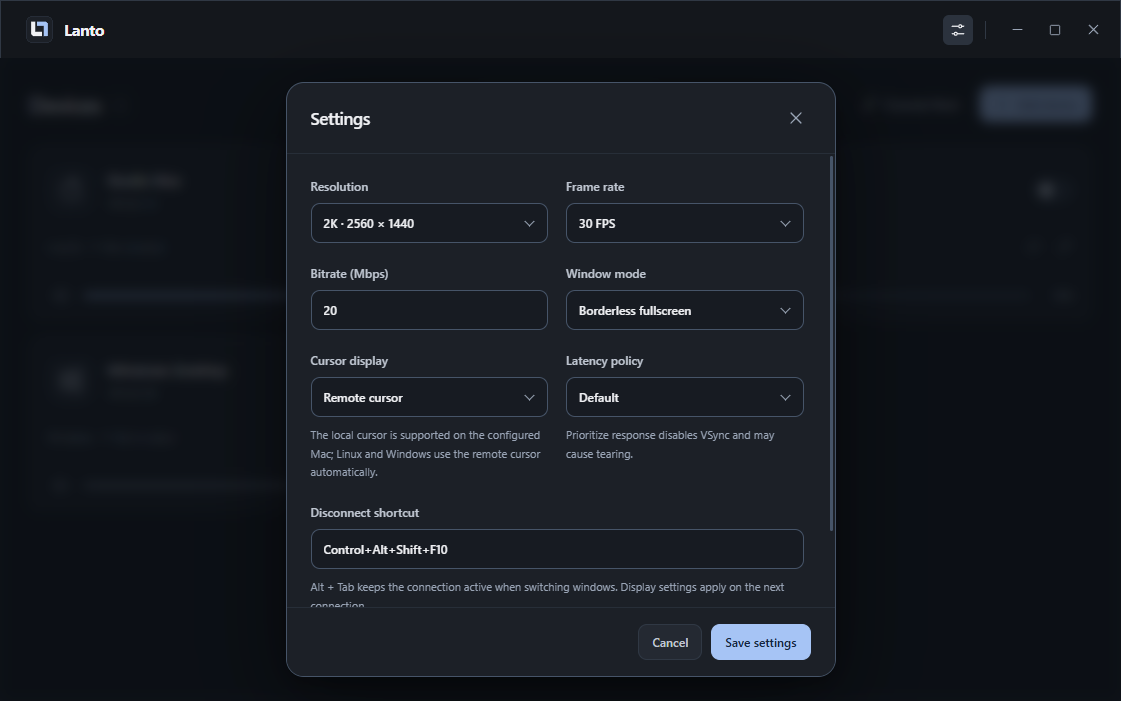
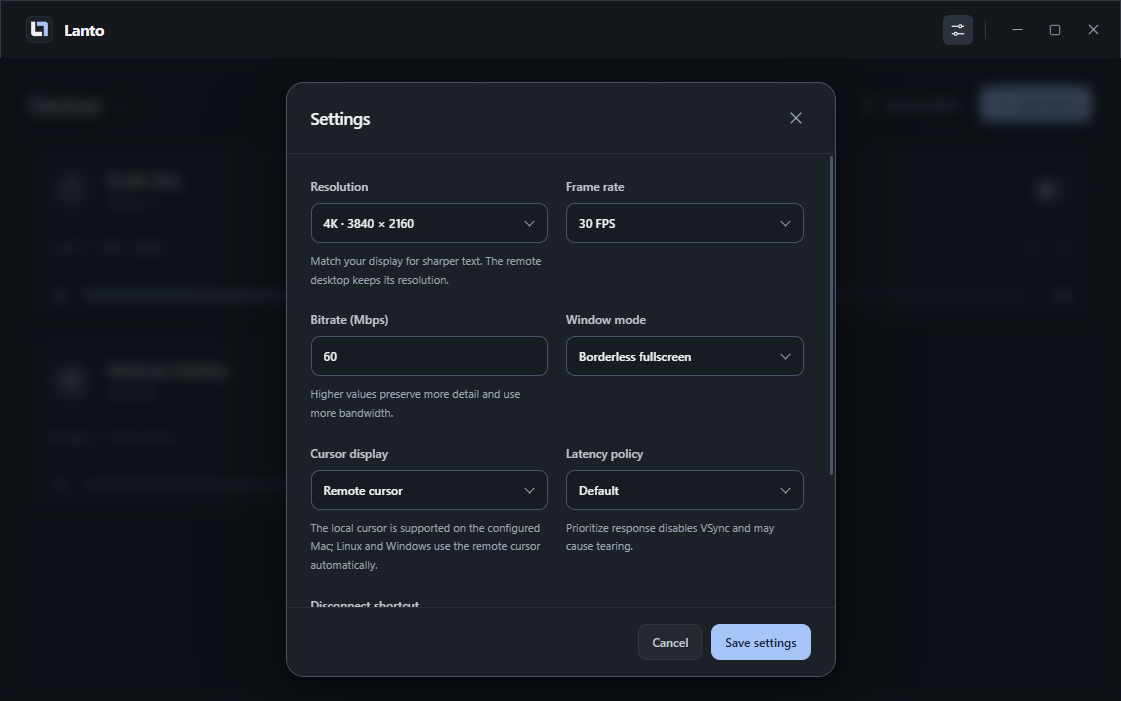
feat: add configurable 4K desktop streaming

diff --git a/src/renderer/src/components/SettingsDialog.tsx b/src/renderer/src/components/SettingsDialog.tsx
@@ -52,14 +52,19 @@ export function SettingsDialog({
               <select
                 autoFocus
                 aria-label="Resolution"
+                aria-describedby="resolution-hint"
                 value={draft.resolution}
                 onChange={(event) =>
                   setDraft({ ...draft, resolution: event.target.value as Settings['resolution'] })
                 }
               >
+                <option value="3840x2160">4K · 3840 × 2160</option>
                 <option value="2560x1440">2K · 2560 × 1440</option>
                 <option value="1920x1080">1080p · 1920 × 1080</option>
               </select>
+              <small id="resolution-hint">
+                Match your display for sharper text. The remote desktop keeps its resolution.
+              </small>
             </label>
             <label>
               Frame rate
@@ -79,6 +84,8 @@ export function SettingsDialog({
               Bitrate (Mbps)
               <input
                 type="number"
+                aria-label="Bitrate (Mbps)"
+                aria-describedby="bitrate-hint"
                 required
                 min={5}
                 max={100}
@@ -87,6 +94,9 @@ export function SettingsDialog({
                   setDraft({ ...draft, bitrateMbps: Number(event.target.value) })
                 }
               />
+              <small id="bitrate-hint">
+                Higher values preserve more detail and use more bandwidth.
+              </small>
             </label>
             <label>
               Window mode

diff --git a/tests/config.test.ts b/tests/config.test.ts
@@ -17,12 +17,20 @@ test('configuration persists a NAS-independent local profile across restarts', a
     assert.deepEqual(original, defaultConfig())
     assert.equal(original.devices.length, 0)
     original.devices.push(deviceFixture())
-    original.settings.bitrateMbps = 35
+    original.settings.resolution = '3840x2160'
+    original.settings.fps = 30
+    original.settings.bitrateMbps = 75
     await store.save(original)
     assert.deepEqual(await new ConfigStore(directory).load(), original)
     original.devices[0]!.name = 'New name'
     await store.save(original)
     assert.equal((await store.load()).devices[0]!.name, 'New name')
+    // New defaults must not overwrite an existing lower-bandwidth profile.
+    original.settings.resolution = '1920x1080'
+    original.settings.fps = 60
+    original.settings.bitrateMbps = 20
+    await store.save(original)
+    assert.deepEqual((await new ConfigStore(directory).load()).settings, original.settings)
   } finally {
     await removeTestDirectory(directory, 'lanto-config-')
   }

diff --git a/src/shared/model.ts b/src/shared/model.ts
@@ -25,7 +25,7 @@ export type DeviceInput = Omit<Device, 'id' | keyof DeviceAudio> &
 export interface Settings {
   moonlightPath: string
   returnShortcut: string
-  resolution: '2560x1440' | '1920x1080'
+  resolution: '3840x2160' | '2560x1440' | '1920x1080'
   fps: number
   bitrateMbps: number
   windowMode: 'borderless' | 'windowed'
@@ -139,9 +139,9 @@ export function defaultConfig(): Config {
     settings: {
       moonlightPath: '',
       returnShortcut: 'Control+Alt+F12',
-      resolution: '2560x1440',
+      resolution: '3840x2160',
       fps: 30,
-      bitrateMbps: 20,
+      bitrateMbps: 60,
       windowMode: 'borderless',
       lowLatency: false,
       showPerformanceOverlay: false,

diff --git a/tests/media.test.ts b/tests/media.test.ts
@@ -15,7 +15,8 @@ test('Moonlight uses discrete arguments and leaves the remote app running after 
   const device = deviceFixture({ appName: 'Desktop with spaces' })
   const args = streamArguments(device, config.settings)
   assert.deepEqual(args.slice(0, 3), ['stream', 'linux1.local', 'Desktop with spaces'])
-  assert.equal(args[args.indexOf('--bitrate') + 1], '20000')
+  assert.equal(args[args.indexOf('--resolution') + 1], '3840x2160')
+  assert.equal(args[args.indexOf('--bitrate') + 1], '60000')
   assert.equal(args[args.indexOf('--fps') + 1], '30')
   assert.ok(args.includes('--no-quit-after'))
   assert.ok(args.includes('--no-background-gamepad'))

diff --git a/src/shared/validation.ts b/src/shared/validation.ts
@@ -47,7 +47,7 @@ export const settingsSchema = z
       .max(4096)
       .refine((value) => !/[\u0000-\u001f]/.test(value)),
     returnShortcut: cleanText(80),
-    resolution: z.enum(['2560x1440', '1920x1080']),
+    resolution: z.enum(['3840x2160', '2560x1440', '1920x1080']),
     fps: z.number().int().min(15).max(60),
     bitrateMbps: z.number().int().min(5).max(100),
     windowMode: z.enum(['borderless', 'windowed']),

diff --git a/docs/verification.md b/docs/verification.md
@@ -183,3 +183,11 @@ After integration of the parallel English UI changes, formatting, type checking,
 The Windows portable package was launched using an isolated user data directory. Checks confirmed packaged execution, automatic discovery of the bundled player, an empty initial device list, and an available SSH wizard. The package contains the player, Host archive, required JavaScript dependencies, and component catalog; the controller requires no separate Node.js or Moonlight installation.
 
 Validation limits: existing Sunshine and Host installations were not removed to exercise installer branches. Full installation regression on clean Windows, macOS, and Linux images has not been completed. Fresh installation paths are implemented with pinned versions and SHA256 verification, while system permissions remain under OS control. Reuse tests do not establish support for every clean system, distribution, architecture, or driver. See the [SSH deployment scope](ssh-deployment.md).
+
+## Configurable 4K desktop streaming
+
+On 2026-10-17, 3840 × 2160 was added to the settings schema and resolution selector. New profiles use 4K, 30 FPS, and 60 Mbps; existing profiles keep their saved settings. Resolution, frame rate, and bitrate remain independently editable. Configuration tests cover both 4K persistence and preservation of an existing 1080p profile. The Electron smoke test saves a custom 75 Mbps 4K30 profile, verifies the native launch arguments, and verifies the saved values after restart. The compact settings layout and updated documentation screenshot were inspected.
+
+The everyday controller was updated after a backup and its settings changed through the actual UI to 4K / 30 FPS / 60 Mbps. All device entries and unrelated preferences were preserved. A Windows-to-Linux connection confirmed `Video stream is 3840x2160x30`, a requested bitrate of `60000 kbps`, receipt of video, and D3D11VA hardware decoding/rendering on a 3840 × 2160 display. The short sample reported 0% network/jitter frame drops, approximately 1 ms average network latency, 1.33 ms average decoding time, and 0.21 ms average rendering time. These component timings are not end-to-end latency, and this short check is not a sustained performance benchmark. The user subsequently confirmed that the image was clear.
+
+The connection was restored with the performance overlay off. The target desktop resolution was not automatically changed. Build/type checking, formatting, all 39 behavior tests, Go tunnel tests, and Electron UI smoke tests passed.

diff --git a/docs/design.md b/docs/design.md
@@ -169,16 +169,16 @@ Media travels directly between Windows and the target host, without NAS, cloud, 
 
 ## Performance records and initial acceptance targets
 
-Only 2K at 30fps is a user-specified display requirement. The time thresholds below are candidate engineering targets for stage zero, not measured results or hardware guarantees. If the baseline falls short, identify the bottleneck before adjusting the target or implementation.
+The initial display requirement was 2K at 30fps. It was revised on 2026-10-17 to selectable 4K, 30fps, and a higher bitrate for desktop text clarity. The time thresholds below are candidate engineering targets for stage zero, not measured results or hardware guarantees. If the baseline falls short, identify the bottleneck before adjusting the target or implementation.
 
 | Metric | Candidate target or measurement |
 | --- | --- |
-| Resolution and frame rate | 2560×1440, 30fps; encoders may emit frames on demand for a static desktop |
+| Resolution and frame rate | Up to 3840×2160; new profiles use 30fps, with 15/30/60fps selectable. Encoders may emit frames on demand for a static desktop. |
 | Continuous active desktop use | Record presented frame rate, dropped frames, and stutter during scrolling; run for at least 30 minutes |
 | Switching connected sessions | From key event to usable new view; initial P95 target ≤500ms over at least 100 switches |
 | Input-to-video response | Initial P95 target ≤120ms; use external recording or consistent end-to-end measurement, not ping |
 | Cold connection and reconnection | Record first frame, reauthentication, and restored input separately from hot-switch measurements |
-| Bitrate | Test 10/20/35 Mbps and choose based on content, encoder, and text clarity |
+| Bitrate | Start new 4K30 profiles at 60 Mbps; expose 5–100 Mbps and verify text clarity and network headroom on each setup. |
 | Background prewarming cost | Record CPU/GPU/VRAM and network use; do not promise zero overhead when hidden |
 | Game impact | Compare frame times and input with Lanto closed, the console resident, and a prewarmed stream resident |
 | Residual input | Repeated switching and abnormal disconnects must leave no held input; this is a functional pass criterion |

diff --git a/README.md b/README.md
@@ -29,6 +29,7 @@ The project combines a focused device manager, guided SSH setup, a small Host se
 | Manage several computers | Save named devices and connect to one remote desktop at a time. |
 | Set up through SSH | Inspect the target, verify its host fingerprint, and install or reuse the required components through the setup wizard. |
 | Stream desktop, audio, and input | The native player handles video decoding, sound, keyboard, and mouse outside Electron. |
+| Choose stream quality | Select 4K, 1440p, or 1080p and adjust frame rate and bitrate independently. New profiles start at 4K / 30 FPS / 60 Mbps. |
 | Control volume per device | Remember volume and mute locally without changing the remote system volume. |
 | Share a clipboard | Opt in to plain text and images across paired, online Hosts, even when no desktop stream is open. |
 | Move files and folders | Enable file sharing, copy on one computer, wait for the transfer, and paste on another. |
@@ -59,7 +60,7 @@ This early release is an unsigned portable application. Verify its checksum agai
 | Remote Host | Linux | Ubuntu desktop deployment and streaming tested; clipboard access needs a working graphical session. |
 | Controller | macOS / Linux | Source is available; this release does not provide or validate controller packages. |
 
-Desktop sessions up to **2560 × 1440 at 60 fps** were exercised on the tested LAN setups. Actual quality and latency depend on capture support, encoder/decoder hardware, network conditions, and the display. This is a record of compatibility checks, not a performance guarantee. See [verification notes](docs/verification.md).
+Desktop sessions up to **2560 × 1440 at 60 fps** were exercised on the tested LAN setups. A subsequent Windows-to-Linux check also received **3840 × 2160 at 30 fps** with a 60 Mbps bitrate setting. Actual quality and latency depend on capture support, encoder/decoder hardware, network conditions, and the display. This is a record of compatibility checks, not a performance guarantee. See [verification notes](docs/verification.md).
 
 ## How it works
 

diff --git a/docs/getting-started.md b/docs/getting-started.md
@@ -51,7 +51,9 @@ Use the switch on a device card to connect or disconnect. Only one stream can be
 
 Adjust each card's volume or mute independently. These settings change playback on your controller, not the target's system volume.
 
-In Settings, choose resolution, frame rate, bitrate, and window mode. Start with defaults and change one setting at a time. Performance data is optional. Experimental options require compatible native components; see [native notes](../native/README.md).
+In Settings, choose resolution, frame rate, bitrate, and window mode independently. New profiles start at **4K (3840 × 2160), 30 FPS, and 60 Mbps**. Existing profiles keep their saved choices; select the new values and reconnect to apply them. 1440p and 1080p remain available, with 15/30/60 FPS and a manually adjustable 5–100 Mbps bitrate.
+
+For sharper desktop text, match the stream resolution to your controller display and check the target's desktop resolution. Lanto does not automatically resize the target desktop. A higher bitrate preserves more image detail but needs more network bandwidth; lower it if your connection cannot sustain it. Performance data is optional. Experimental options require compatible native components; see [native notes](../native/README.md).
 
 ![Actual stream settings](images/screenshots/settings.png)
 

diff --git a/CHANGELOG.md b/CHANGELOG.md
@@ -1,5 +1,11 @@
 # Changelog
 
+## Unreleased
+
+- Add selectable 4K (3840 × 2160) streaming alongside 1440p and 1080p.
+- Start new profiles at 4K, 30 FPS, and 60 Mbps. Existing profiles retain their saved values.
+- Keep resolution, frame rate, and bitrate independently adjustable, with guidance for desktop text clarity and bandwidth.
+
 ## 0.3.1 — 2026-10-17
 
 First public open-source release.
